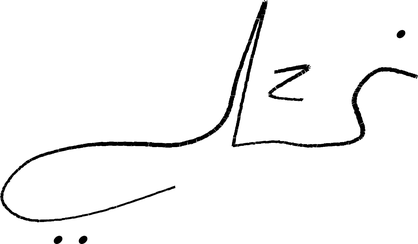
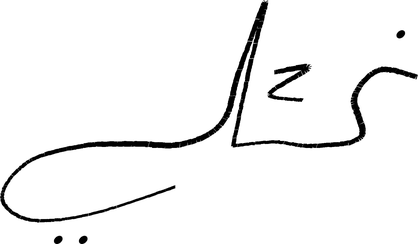
Deki signature on both certs, thicker

diff --git a/lib/features/certificates/certificate_card.dart b/lib/features/certificates/certificate_card.dart
@@ -153,7 +153,7 @@ class CertificateCard extends StatelessWidget {
       width: 300 * k,
       height: 200 * k,
       child: Image.asset(
-          _ar ? 'assets/brand/sig_ar.png' : 'assets/brand/sig_en.png',
+          'assets/brand/sig_en.png',
           fit: BoxFit.contain),
     ));
     for (final x in [690.0, 1350.0]) {
